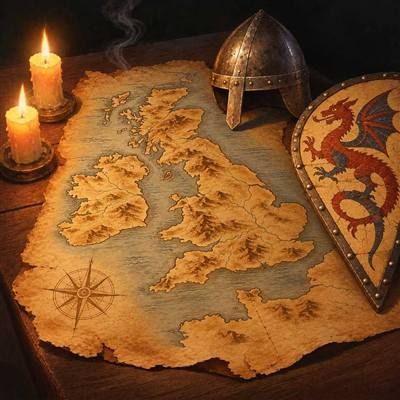
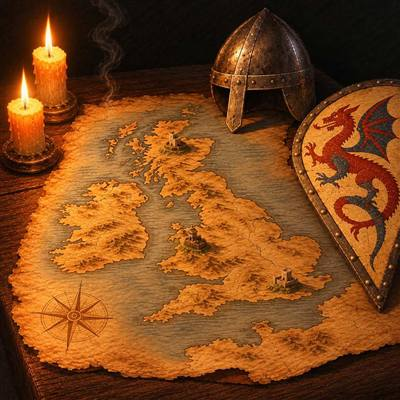
England's picture has three small castles on the map: Scotland, Wales and the south

diff --git a/LICENSES.md b/LICENSES.md
@@ -8,7 +8,7 @@ Alt i spillet er lavet til spillet, undtagen:
 | `assets/paper.jpg` | Papirtekstur (Paper 003, farvebilledet) | [ambientCG](https://ambientcg.com/view?id=Paper003) | [CC0](https://creativecommons.org/publicdomain/zero/1.0/) |
 | `assets/music/theme.mp3` | Temamusikken "Rulers of the Map – Theme" | Lavet med AI hos [Abracadabrax](https://abracadabrax.app), model "Abracadabrax Instrumental" (Stable Audio), 1/11-2026 | Vores til kommerciel brug: modellen er mærket "cleared for commercial use", og [vilkårene](https://abracadabrax.app/terms) giver ejerskab og kommerciel brug (læst 1/11-2026) |
 | `assets/togter/italy.jpg`, `alexander.jpg`, `vikings.jpg` | Billederne bag togternes årstal (Rom, Alexander, Vikingetogtet) | Lavet med AI hos Abracadabrax, model Seedream 4.5 (ByteDance), 1/11-2026, gjort mindre til 960 px, AI'ens opdigtede ord visket ud | Som musikken: ejerskab og kommerciel brug efter Abracadabrax' vilkår og FAQ (læst 1/11-2026) |
-| `assets/togter/liberation.jpg`, `west.jpg`, `england.jpg`, `threekingdoms.jpg`, `genghis.jpg`, `inka.jpg`, `constantinople.jpg`, `songhai.jpg`, `akbar.jpg`, `japan.jpg`, `napoleon.jpg`, `ethiopia.jpg`, `world.jpg` | Billederne bag de øvrige togters årstal (Befrielsen, Vesten, England, De tre kongeriger, Djengis Khan, Inka, Konstantinopel, Songhai, Akbar, Japan, Napoleon, Etiopien, Verden) | Lavet med AI i ChatGPT (OpenAI) med vores billeder som stilforlæg, 2.–8/11-2026 (Napoleon lavet om 8/11 med Skandinavien rettet, Verden 9/11 med mindre figurer der står hvor deres togt er), gjort mindre til 960 px, AI'ens opdigtede ord visket ud, hvor der var nogen | Vores: OpenAIs [vilkår for Europa](https://openai.com/policies/eu-terms-of-use/) giver brugeren ejerskab til det, der laves, også kommercielt (læst 2/11-2026) |
+| `assets/togter/liberation.jpg`, `west.jpg`, `england.jpg`, `threekingdoms.jpg`, `genghis.jpg`, `inka.jpg`, `constantinople.jpg`, `songhai.jpg`, `akbar.jpg`, `japan.jpg`, `napoleon.jpg`, `ethiopia.jpg`, `world.jpg` | Billederne bag de øvrige togters årstal (Befrielsen, Vesten, England, De tre kongeriger, Djengis Khan, Inka, Konstantinopel, Songhai, Akbar, Japan, Napoleon, Etiopien, Verden) | Lavet med AI i ChatGPT (OpenAI) med vores billeder som stilforlæg, 2.–8/11-2026 (Napoleon lavet om 8/11 med Skandinavien rettet, Verden 9/11 med mindre figurer der står hvor deres togt er, England 10/11 med tre små borge), gjort mindre til 960 px, AI'ens opdigtede ord visket ud, hvor der var nogen | Vores: OpenAIs [vilkår for Europa](https://openai.com/policies/eu-terms-of-use/) giver brugeren ejerskab til det, der laves, også kommercielt (læst 2/11-2026) |
 
 Kortet, kystlinjerne, kortsymbolerne og lydene er tegnet og lavet i koden.
 
